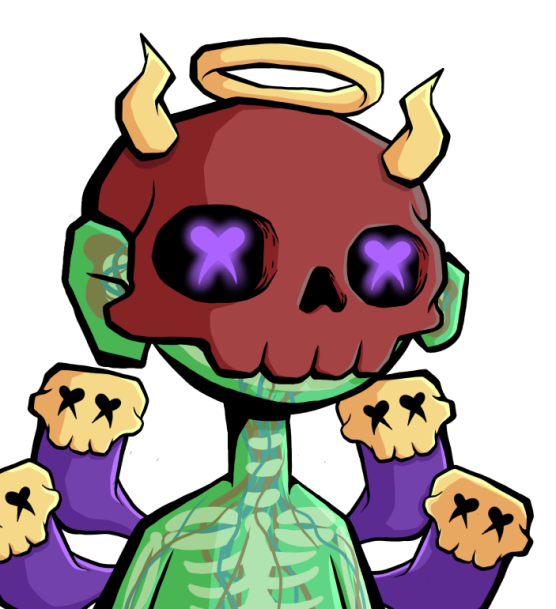
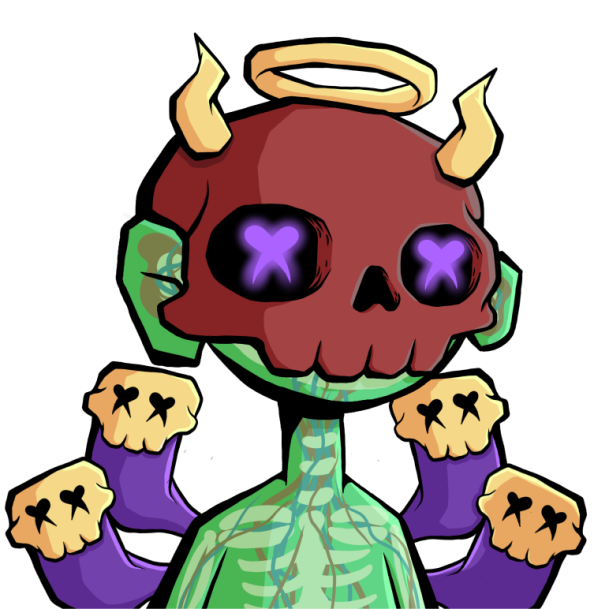
changed kanohi page HeroImage

diff --git a/app/kanohi/page.tsx b/app/kanohi/page.tsx
@@ -24,7 +24,7 @@ const Home = () => {
             className='aspect-auto min-[1265px]:mt-6'></Image>
         </div>
 
-        <div className='relative w-[800px] min-[1265px]:-mt-24 max-sm:ml-12'>
+        <div className='relative w-[800px] min-[1265px]:-mt-24'>
           <Image
             quality={100}
             priority={true}
